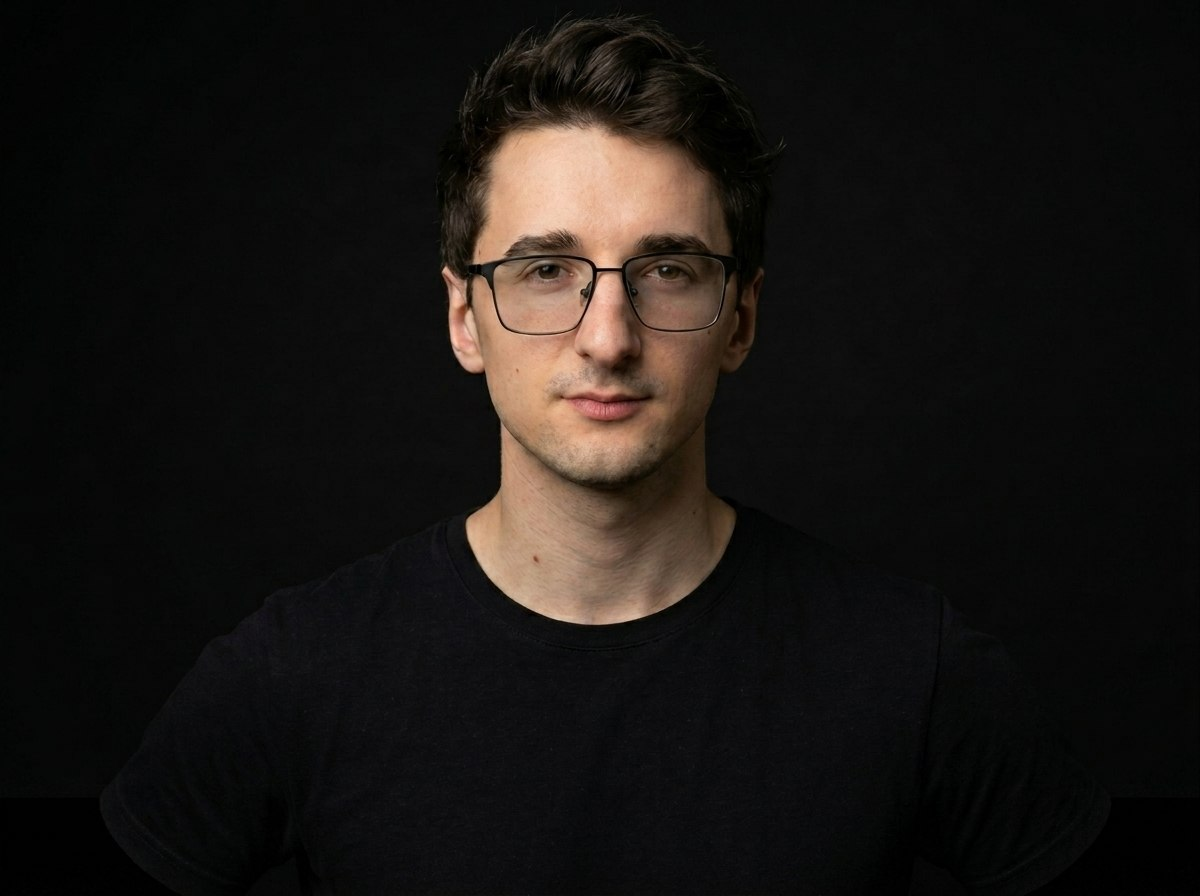
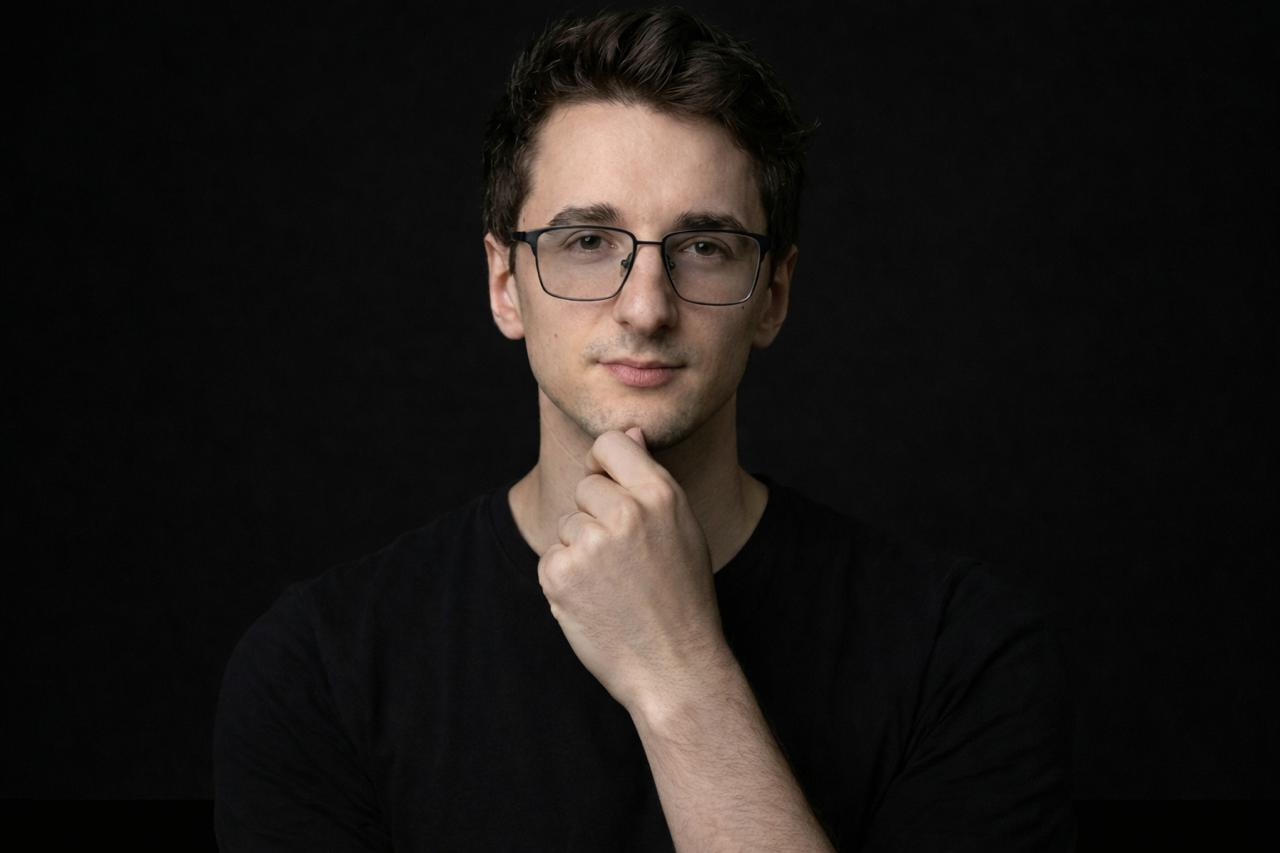
Update photo & ui

Changed region(s): [[0.37, 0.0, 0.6475, 1.0]]

diff --git a/styles.css b/styles.css
@@ -7,7 +7,7 @@
     --selection-background: #ffffff;
     --marker: #596173;
     --page-width: 42rem;
-    --photo-width: clamp(28rem, 40vw, 38rem);
+    --photo-width: 33.333vw;
     --photo-fade-height: clamp(2.5rem, 8vw, 4.5rem);
     --font-sans: -apple-system, BlinkMacSystemFont, "Segoe UI", Helvetica, Arial, sans-serif;
 }
@@ -58,29 +58,33 @@ body {
 .profile-rail {
     position: relative;
     width: 100%;
-    background: var(--background);
-    overflow: hidden;
+    display: flex;
+    justify-content: center;
+    background: transparent;
+    overflow: visible;
     border-radius: 0;
 }
 
 .profile-rail::after {
-    content: "";
-    position: absolute;
-    right: 0;
-    bottom: 0;
-    left: 0;
-    height: var(--photo-fade-height);
-    background: linear-gradient(to bottom, rgba(0, 0, 0, 0), var(--background));
-    pointer-events: none;
+    display: none;
+}
+
+.profile-photo-frame {
+    width: clamp(10rem, 42vw, 14rem);
+    height: clamp(10rem, 42vw, 14rem);
+    max-width: 100%;
+    overflow: hidden;
+    border-radius: 50%;
 }
 
 .profile-photo {
     display: block;
     width: 100%;
-    height: min(33svh, 16rem);
-    object-fit: contain;
-    object-position: center bottom;
-    border-radius: 0;
+    height: 100%;
+    object-fit: cover;
+    object-position: center 12%;
+    transform: scale(1.24);
+    transform-origin: center 20%;
 }
 
 h1,
@@ -220,32 +224,68 @@ svg {
 }
 
 @media (min-width: 960px) {
+    .page--with-photo {
+        padding: 0;
+    }
+
     .page--with-photo .page-shell {
-        max-width: calc(var(--page-width) + 3rem);
-        min-height: auto;
-        margin: 0 auto;
-        flex-direction: column;
-        align-items: center;
-        gap: 0.35rem;
+        max-width: none;
+        min-height: 100vh;
+        margin: 0;
+        flex-direction: row-reverse;
+        align-items: stretch;
+        gap: clamp(1.25rem, 3vw, 2.5rem);
     }
 
     .page--with-photo .profile-rail {
-        position: relative;
+        position: sticky;
+        top: 0;
+        flex: 0 0 var(--photo-width);
         width: var(--photo-width);
-        max-width: 100%;
-        align-self: center;
+        max-width: min(33.333vw, 100%);
+        height: 100vh;
+        align-self: flex-start;
         background: transparent;
+        overflow: hidden;
+    }
+
+    .page--with-photo .profile-rail::after {
+        content: "";
+        display: block;
+        position: absolute;
+        top: 0;
+        right: auto;
+        bottom: 0;
+        left: 0;
+        width: clamp(1.5rem, 4vw, 3rem);
+        height: auto;
+        background: linear-gradient(to right, var(--background), rgba(0, 0, 0, 0));
+        pointer-events: none;
     }
 
     .page--with-photo .profile-photo {
         width: 100%;
-        height: auto;
-        max-height: 48vh;
+        height: 100%;
+        max-height: none;
+        object-fit: cover;
+        object-position: center top;
+        transform: none;
+    }
+
+    .page--with-photo .profile-photo-frame {
+        width: 100%;
+        height: 100%;
+        max-width: none;
+        overflow: hidden;
+        border-radius: 0;
     }
 
     .page--with-photo .content {
+        flex: 1 1 auto;
+        min-width: 0;
         width: 100%;
-        max-width: var(--page-width);
-        padding: 0;
+        max-width: none;
+        margin-right: auto;
+        padding: 0.9rem 1.5rem 1.5rem;
     }
 }

diff --git a/index.html b/index.html
@@ -15,11 +15,13 @@
         
             <div class="page-shell">
                 <aside class="profile-rail" aria-label="Profile photo">
-                    <img
-                        class="profile-photo"
-                        src="/assets/profile-photo.jpg"
-                        alt="Portrait of Vladislav Eliseev"
-                    >
+                    <div class="profile-photo-frame">
+                        <img
+                            class="profile-photo"
+                            src="/assets/profile-photo-vert.jpg"
+                            alt="Portrait of Vladislav Eliseev"
+                        >
+                    </div>
                 </aside>
                 <div class="content">
                     <h1>Vladislav Eliseev</h1>
